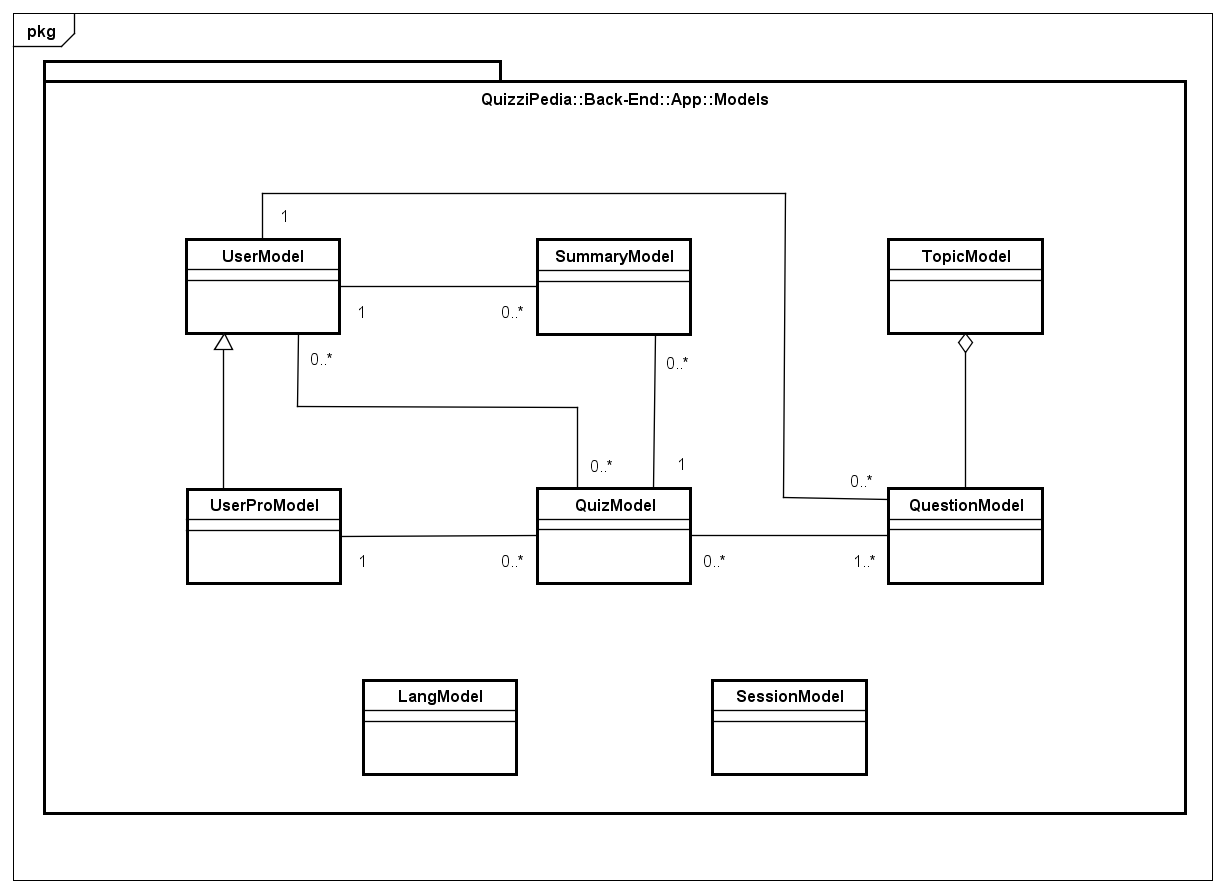
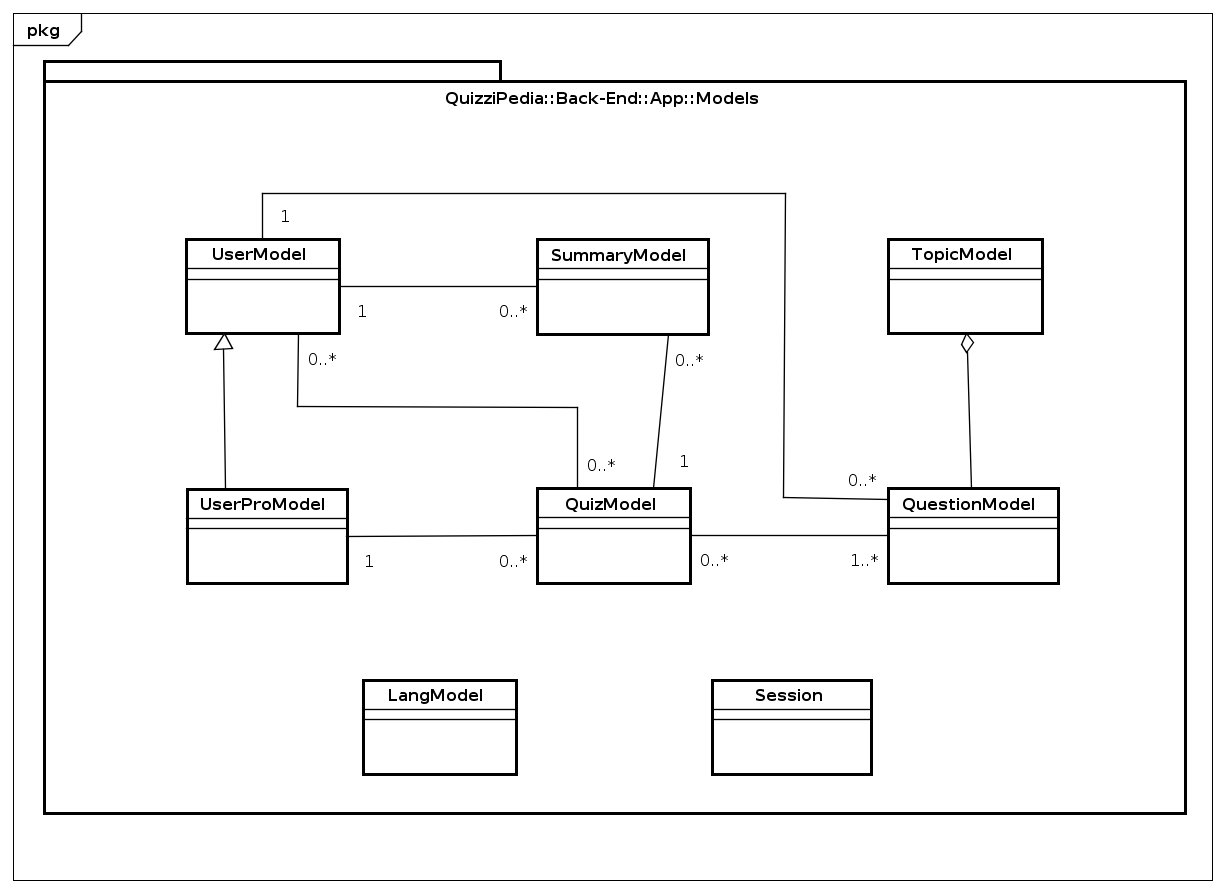
redatto documento Session Model

diff --git a/RP/DefinizioneDiProdotto/sezioni/Back-End/Models/SessionModel.tex b/RP/DefinizioneDiProdotto/sezioni/Back-End/Models/SessionModel.tex
@@ -1,7 +1,23 @@
-\paragraph{QuizziPedia::Back-End::App::Routers::UserRouter}
+\paragraph{QuizziPedia::Back-End::App::Models::Session}
+\label{QuizziPedia::Back-End::App::Models::Session}
+\begin{figure}[ht]
+	\centering
+	\includegraphics[scale=0.45]{UML/Classi/Back-End/QuizziPedia_Back-End_App_Models_sessionModel.png}
+	\caption{QuizziPedia::Back-End::App::Models::Session}
+\end{figure}
+\FloatBarrier
 	\begin{itemize}
 		\item \textbf{Descrizione} \\
+		Classe che gestisce la sessione utente dell'applicazione. Non sono stati modellati attributi e metodi di questa classe in quanto viene inizializzata da \textit{Express\ped{G}} ed utilizzata da \textit{Passport\ped{G}} attraverso funzionalità interne ai due middleware.
 		\item \textbf{Utilizzo} \\
+		Viene utilizzata da \textit{Passport\ped{G}} per memorizzare i dati della sessione che viene creata quando un utente effettua il login.
 		\item \textbf{Relazioni con altre classi} \\
-		\item \textbf{Metodi} \\
+			\begin{itemize}
+				\item
+				IN \texttt{AuthenticationController} \\
+				Classe che si occupa della registrazione e dell'autenticazione dell'utente nel sistema. È un componente ConcreteHandler del design pattern \textit{Chain of responsibility\ped{G}}. Risulta essere il componente che eventualmente esegue la richiesta del client attraverso \textit{Passport\ped{G}}.			
+				\item
+				IN \texttt{SessionController} \\
+				Classe middleware che, utilizzando \textit{Passport\ped{G}}, si occupa di controllare la consistenza dell'oggetto session durante la sessione associata all'utente autenticato. È un componente ConcreteHandler del design pattern \textit{Chain of responsibility\ped{G}}.
+			\end{itemize}
 	\end{itemize}

diff --git a/RP/DefinizioneDiProdotto/sezioni/Back-End/QuizziPedia_Back-End_App_Models.tex b/RP/DefinizioneDiProdotto/sezioni/Back-End/QuizziPedia_Back-End_App_Models.tex
@@ -8,6 +8,7 @@
 \end{figure}
 \FloatBarrier
 \subsubsection{Classi}
+\input{sezioni/Back-End/Models/SessionModel.tex}
 \input{sezioni/Back-End/Models/UserModel.tex}
 \input{sezioni/Back-End/Models/UserProModel.tex}
 \input{sezioni/Back-End/Models/QuestionModel.tex}
